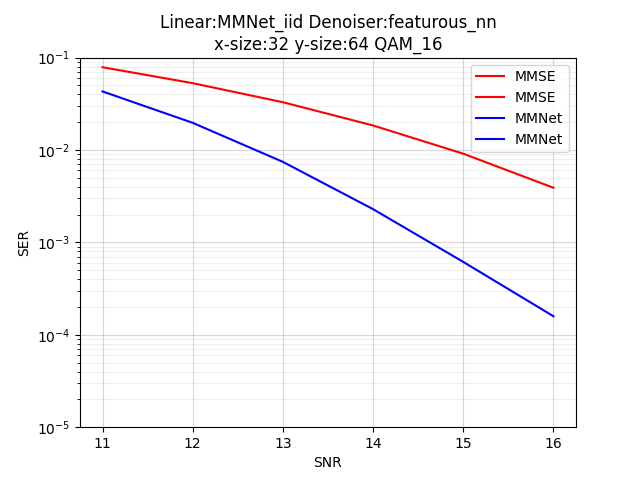
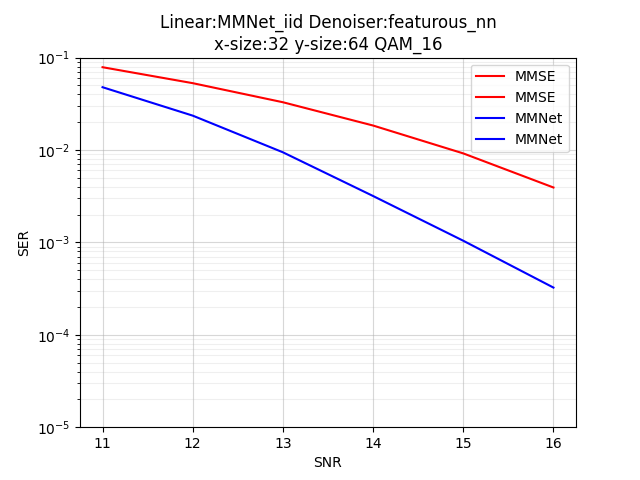
evening logging and graphs

diff --git a/learning_based/log.md b/learning_based/log.md
@@ -1,5 +1,29 @@
 ## Log
 
+#### 2020-11-23
+Перешла к системам 32х64. Интересно было протестировать различия. 
+Сегодня три интересных графика:
+1. "Честный" график MMNet-iid c denoiser MMNet. Обучен стандартно (batch = 500, iterations = 10000), строка запуска:
+`python3 grid_search.py  --x-size 16 --y-size 64 --snr-min 9 --snr-max 14 --layers 10 -lr 1e-3 --batch-size 500 --train-iterations 10000 --mod QAM_16  --test-batch-size 100000  --test-every 100` 
+(ревизия https://github.com/maryruby/MMNet/commit/46b2f95a1925a2b65f1a03ef38fce3119c64d1ca) 
+![MMNet_iid_MMNet_32_64_QAM_16](graphs/graph_32_64_QAM_16_MMNet_iid_MMNet.png) 
+
+2. График MMNet-iid c denoiser featurous_nn. Обучен стандартно (batch = 500, iterations = 10000), строка запуска:
+`python3 grid_search.py  --x-size 16 --y-size 64 --snr-min 9 --snr-max 14 --layers 10 -lr 1e-3 --batch-size 500 --train-iterations 10000 --mod QAM_16  --test-batch-size 100000  --test-every 100` 
+(ревизия https://github.com/maryruby/MMNet/commit/46b2f95a1925a2b65f1a03ef38fce3119c64d1ca)
+![MMNet_iid_featurous_32_64_QAM_16](graphs/graph_32_64_QAM_16_MMNet_iid_featurous_nn.png) 
+
+3. График MMNet-iid c denoiser featurous_nn и ошибкой mse, которая считается только по последнему слою. Обучен стандартно, строка запуска:
+`python3 offlineTraining.py --x-size 32 --y-size 64 --snr-min 11 --snr-max 16 --layers 10 -lr 1e-3 --batch-size 500 --train-iterations 10000 --mod QAM_16 --test-batch-size 5000 --linear MMNet_iid --denoiser featurous_nn --loss-type mse --test-every 100 --log-file result1.json`
+(ревизия https://github.com/maryruby/MMNet/commit/46b2f95a1925a2b65f1a03ef38fce3119c64d1ca)
+![MMNet_iid_featurous_32_64_QAM_16](graphs/MMNet_vs_featurous_32_64_QAM16_last_loss.png)
+
+Анализируя эти графики, я пришла к выводу, что описание в статье не соответствует приведенному у них графику.
+Прилагаю его сразу:
+![Original_32_64](graphs/Original_32_64.png)
+
+Завтра соберу сводный график.
+
 #### 2020-11-21
 Нарисовала более удобный график для сравнения MMNet denoiser и featurous_nn:
 ![MMNet_iid denoiser vs featurous_nn denoiser in QAM_4](graphs/graph_16_64_QAM_4_MMNet_denoiser_vs_featurous_denoiser.jpg) 
@@ -13,7 +37,7 @@
 Чуть лучше denoiser'а MMNet показал себя при QAM_64 denoiser OAMPNet. Совсем незначительно.
 
 #### 2020-11-20
-Работает grid_search.py (ревизия 1fa8cc1366985eab86fe2f97618ff6588079ed5f)
+Работает grid_search.py (ревизия https://github.com/maryruby/MMNet/commit/1fa8cc1366985eab86fe2f97618ff6588079ed5f)
 `python3 grid_search.py --x-size 16 --y-size 64 --snr-min 2 --snr-max 7 --layers 10 -lr 1e-3 --batch-size 500 --train-iterations 10000 --mod QAM_4  --test-batch-size 5000 --test-every 100`
 Зафиксирован linear MMNet_iid, перебираю всевозможные denoiser-ы. Шалость удалась — парочка из них, featurous_nn и OAMPNet дают в хвостике результат чуть лучше соответствующего MMNet.
 Графики прилагаю в порядке улучшения:
@@ -23,7 +47,7 @@
 ![MMNet_iid with featurous_nn denoiser](graphs/graph_16_64_QAM_4_MMNet_iid_featurous_nn.png)
 
 #### 2020-11-19
-1. Работает запуск offlineTraining (ревизия 9672acced33b31b217d7edda36711dbbc9902245)
+1. Работает запуск offlineTraining (ревизия https://github.com/maryruby/MMNet/commit/9672acced33b31b217d7edda36711dbbc9902245)
 `python3 offlineTraining.py  --x-size 32 --y-size 64 --snr-min 18 --snr-max 23 --layers 10 -lr 1e-3 --batch-size 500 --train-iterations 10000 --mod QAM_64  --test-batch-size 5000 --linear MMNet_iid --denoiser MMNet --test-every 100` 
 2. Обучила также как в статье batch-size 500, 10000 итераций. В первых двух MMNet у меня даже чуть лучше вышло в хвосте, в последнем чуть хуже. MMSE везде идеально совпал.
 ![transparent_graph](graphs/2020-11-19_16-64-transparent.jpg)

diff --git a/learning_based/todo.md b/learning_based/todo.md
@@ -1,4 +1,4 @@
-##TODO
+### TODO
 
 0. Написать быструю статью.
 
